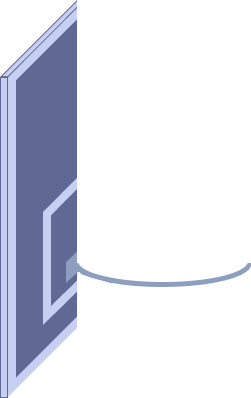
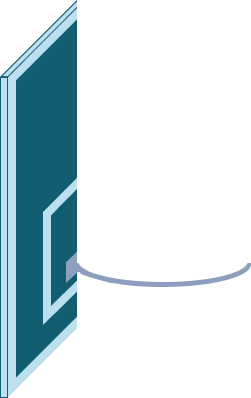
Update color palette

Changed region(s): [[0.0, 0.0, 0.3068, 1.0]]

diff --git a/src/client/scenes/MenuScene.ts b/src/client/scenes/MenuScene.ts
@@ -29,7 +29,7 @@ export default class MenuScene extends Phaser.Scene {
 
     this.add
       .bitmapText(width / 2, 128, Fonts.Pixel, "BOUNCIFICATION", 75)
-      .setTint(Colors.Color1)
+      .setTint(Colors.Orange3)
       .setOrigin(0.5, 0.5);
 
     this.add
@@ -40,7 +40,7 @@ export default class MenuScene extends Phaser.Scene {
         "A MULTIPLAYER GAME WITH BOUNCING BALLS",
         24
       )
-      .setTint(Colors.Color1)
+      .setTint(Colors.Blue2)
       .setOrigin(0.5, 0.5);
 
     this.add
@@ -51,7 +51,7 @@ export default class MenuScene extends Phaser.Scene {
         "ENTER YOUR NAME",
         43
       )
-      .setTint(Colors.Color2)
+      .setTint(Colors.Orange2)
       .setOrigin(0.5, 0.5);
 
     const playerName = window.localStorage.getItem(LS_PLAYER_NAME);
@@ -67,8 +67,8 @@ export default class MenuScene extends Phaser.Scene {
         maxLength: 16,
         fontSize: "64",
         align: "center",
-        color: Colors.getHex(Colors.Color1),
-        backgroundColor: Colors.getHex(Colors.Color5),
+        color: Colors.getHex(Colors.Blue1),
+        backgroundColor: Colors.getHex(Colors.Blue3),
       }
     );
     this.add.existing(nameInput);

diff --git a/src/client/scenes/LobbyScene.ts b/src/client/scenes/LobbyScene.ts
@@ -31,7 +31,7 @@ export default class LobbyScene extends Phaser.Scene {
 
     this.add
       .bitmapText(width / 2, 128, Fonts.Pixel, "BOUNCIFICATION", 75)
-      .setTint(Colors.Color1)
+      .setTint(Colors.Orange3)
       .setOrigin(0.5, 0.5);
 
     this.add
@@ -42,7 +42,7 @@ export default class LobbyScene extends Phaser.Scene {
         "A MULTIPLAYER GAME WITH BOUNCING BALLS",
         24
       )
-      .setTint(Colors.Color1)
+      .setTint(Colors.Blue2)
       .setOrigin(0.5, 0.5);
 
     this.connectingLabel = this.add
@@ -53,7 +53,7 @@ export default class LobbyScene extends Phaser.Scene {
         "connecting to server..",
         32
       )
-      .setTint(Colors.Color2)
+      .setTint(Colors.Blue2)
       .setOrigin(0.5, 0.5);
 
     this.server.onRoomsChanged((rooms) => {

diff --git a/src/client/scenes/ui/Button.ts b/src/client/scenes/ui/Button.ts
@@ -17,12 +17,12 @@ export default class Hoop extends Phaser.GameObjects.Container {
     super(scene, x, y);
 
     this.rect = this.scene.add
-      .rectangle(0, 0, width, height, Colors.Color5, 0.75)
+      .rectangle(0, 0, width, height, Colors.Blue3, 0.75)
       .setInteractive({ useHandCursor: true });
 
     this.text = this.scene.add
       .bitmapText(0, 0, Fonts.Pixel, text, 32)
-      .setTint(Colors.Color1)
+      .setTint(Colors.Blue1)
       .setOrigin(0.5, 0.5);
 
     this.add(this.rect).add(this.text);

diff --git a/src/client/consts/Colors.ts b/src/client/consts/Colors.ts
@@ -1,12 +1,14 @@
 import * as Phaser from "phaser";
 
 export default {
-  Color1: 0xc7cff2,
-  Color2: 0xa1b7ed,
-  Color3: 0x8e9ebf,
-  Color4: 0x606994,
-  Color5: 0x192730,
-  Color6: 0x2e3b43,
+  Blue1: 0xbce0f0,
+  Blue2: 0x219ebc,
+  Blue3: 0x115d72,
+  Background: 0x010d14,
+  Orange1: 0xffb703,
+  Orange2: 0xfd9e02,
+  Orange3: 0xfb8500,
+  Metal: 0x8e9ebf,
   getHex(color: number) {
     return Phaser.Display.Color.IntegerToColor(color).rgba;
   },

diff --git a/src/client/scenes/BootstrapScene.ts b/src/client/scenes/BootstrapScene.ts
@@ -1,3 +1,4 @@
+import Colors from "client/consts/Colors";
 import Scenes from "client/consts/Scenes";
 import Sprites from "client/consts/Sprites";
 import Server from "client/services/Server";
@@ -19,6 +20,8 @@ export default class BootstrapScene extends Phaser.Scene {
   }
 
   async create() {
+    this.cameras.main.setBackgroundColor(Colors.Background);
+
     const offScreen = new Phaser.Geom.Rectangle(
       -400,
       0,
